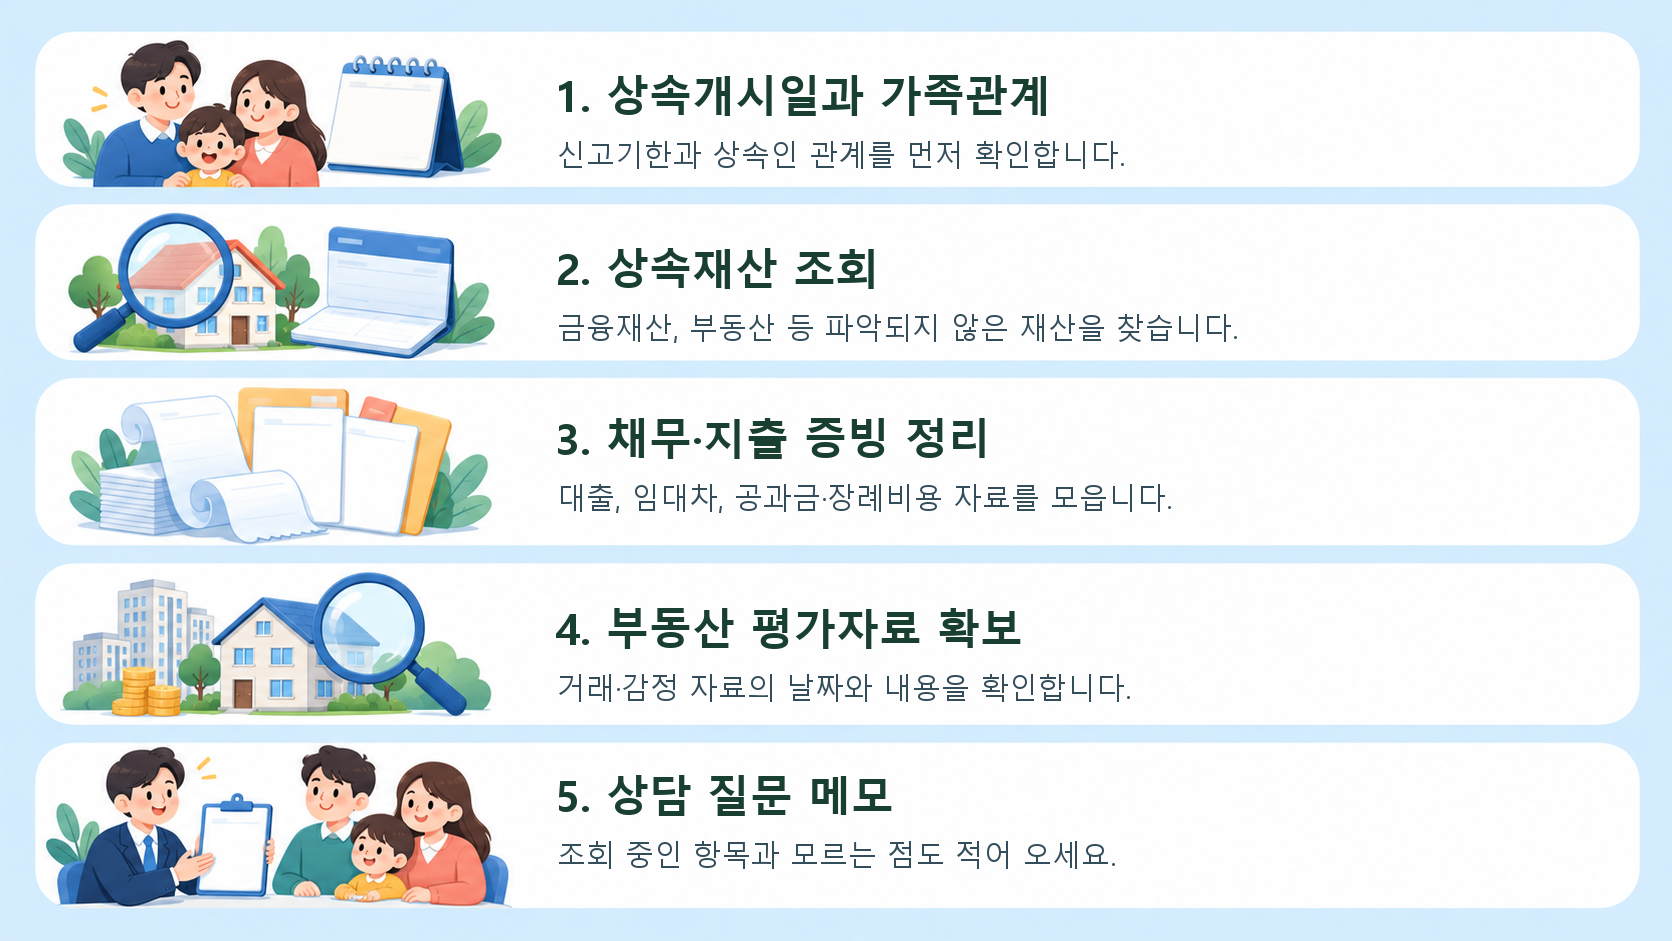
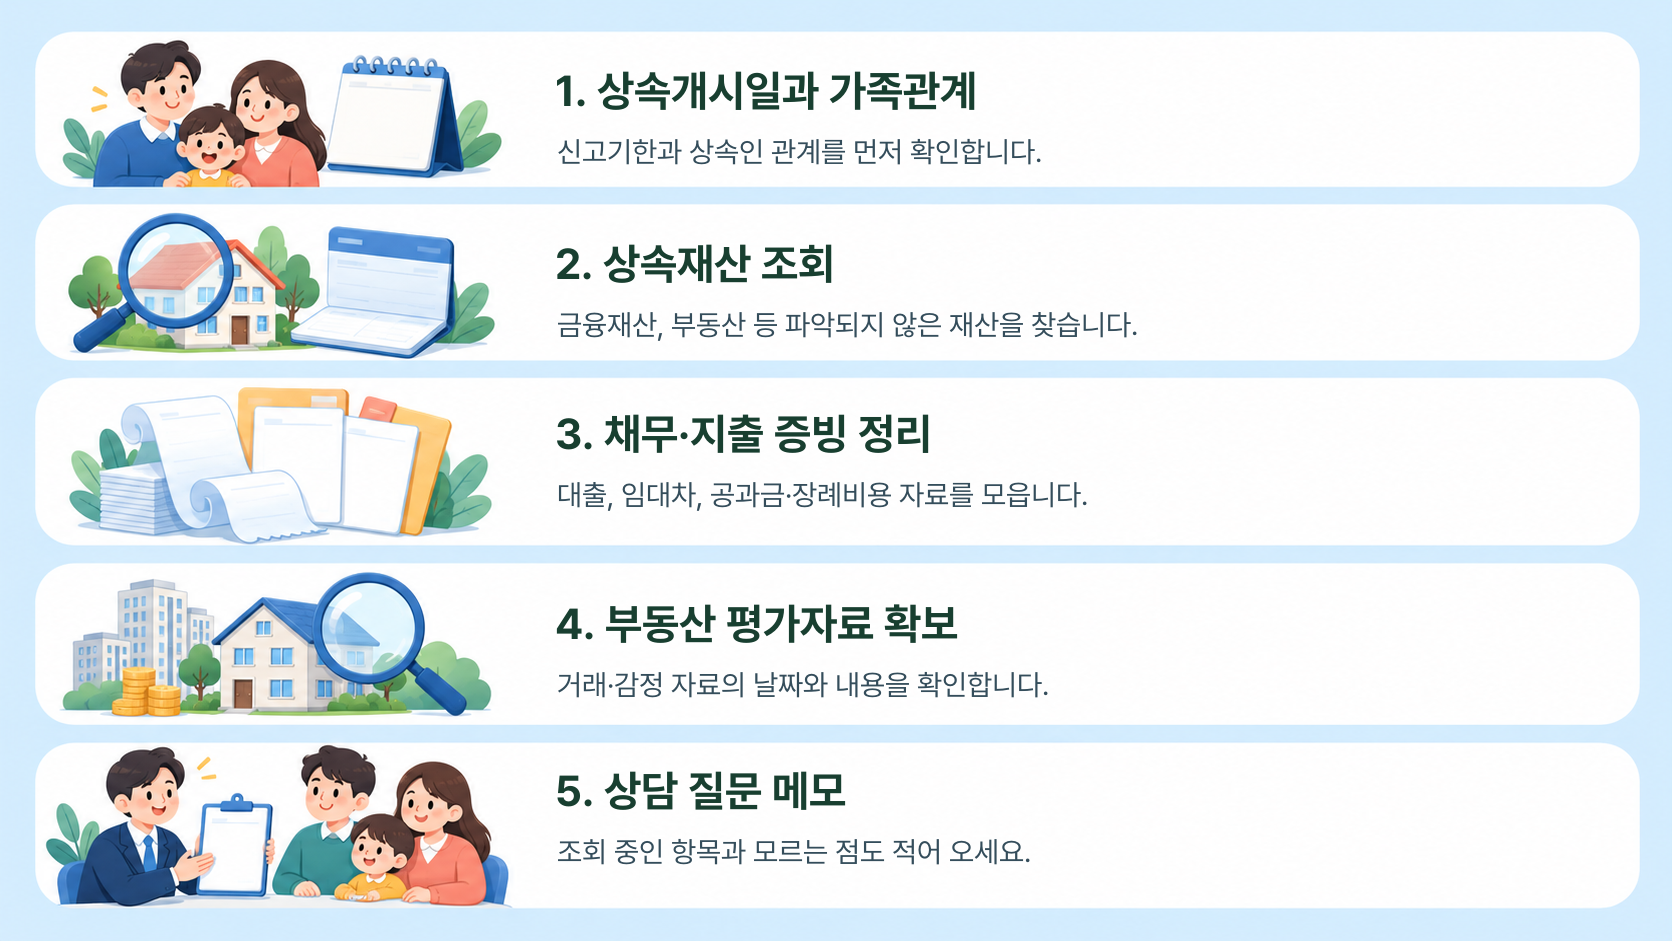
style(blog): use Pretendard and tighten inheritance copy

diff --git a/_posts/2026-10-29-inheritance-tax-first-checklist.md b/_posts/2026-10-29-inheritance-tax-first-checklist.md
@@ -1,55 +1,55 @@
 ---
 layout: post
-title: "상속세 상담 전, 가족이 먼저 확인하면 좋은 다섯 가지"
+title: "상속세 상담 전에 챙길 것 다섯 가지"
 date: 2026-10-29
-excerpt: "상속재산을 어디서 확인하고 어떤 자료부터 모아야 할까요? 국세청 안내를 바탕으로 상담 전 준비 순서를 정리했습니다."
+excerpt: "사망일, 재산 조회 결과, 채무 증빙. 상속세 첫 상담에 가져갈 자료를 정리했습니다."
 image: /assets/img/posts/inheritance-consultation-five-steps.png
 image_alt: "상속세 상담 전 확인할 다섯 단계: 가족관계, 상속재산 조회, 채무·지출 증빙, 부동산 평가자료, 상담 질문 메모"
 author: "김병규 세무회계 편집팀"
 ---
 
-가족을 잃은 뒤에는 행정 절차를 챙기는 일도 버겁습니다. 상속세 상담을 앞두고 모든 서류를 완벽히 갖출 필요는 없습니다. 다만 *언제 상속이 시작됐는지*, *어떤 재산과 채무가 있는지*를 먼저 정리하면 상담 시간을 훨씬 구체적으로 쓸 수 있습니다.
+가족이 세상을 떠난 뒤에는 어디부터 손대야 할지 막막합니다. 첫 상담에 서류를 빠짐없이 가져올 필요는 없습니다. 사망일과 가족관계, 알고 있는 재산과 빚부터 메모해 오시면 됩니다. 아직 모르는 것은 모른다고 표시해 두세요.
 
-## 1. 사망일과 상속인부터 확인하세요
+## 1. 사망일과 가족관계
 
-상속세 신고기한을 계산할 때 기준이 되는 날짜는 상속개시일입니다. 국세청은 일반적인 경우 상속개시일이 속하는 달의 **말일부터 6개월 이내**에 신고하도록 안내합니다. 피상속인이나 상속인이 외국에 주소를 둔 경우 등에는 별도 기한이 적용될 수 있으므로, 해외 거주 가족이 있다면 처음부터 알려주세요. 기한의 마지막 날이 공휴일·토요일·근로자의 날인 경우도 확인해야 합니다. 정확한 신고기한은 [국세청 상속세 신고·납부기한 안내](https://www.nts.go.kr/nts/cm/cntnts/cntntsView.do?mi=2325&cntntsId=7719)에서 확인할 수 있습니다.
+먼저 사망일을 적어 두세요. 국세청은 일반적인 상속세 신고기한을 사망일이 속하는 달의 **말일부터 6개월 이내**로 안내합니다. 상속인이나 돌아가신 분이 외국에 주소를 둔 경우에는 기한이 다를 수 있습니다. 날짜가 공휴일 등에 걸리는지도 확인해야 합니다. [국세청 신고·납부기한 안내](https://www.nts.go.kr/nts/cm/cntnts/cntntsView.do?mi=2325&cntntsId=7719)
 
-상담할 때는 가족관계가 어떻게 이어지는지, 유언이나 사전 증여가 있었는지도 함께 말씀해 주세요. 상속인과 수유자의 범위는 상황에 따라 달라질 수 있습니다. [국세청 상속세 개요](https://www.nts.go.kr/nts/cm/cntnts/cntntsView.do?mi=2324&cntntsId=7718)를 참고하되, 상속포기나 대습상속처럼 관계가 복잡하다면 서류를 보고 판단해야 합니다.
+가족관계증명서가 있다면 함께 가져오세요. 유언이나 생전 증여가 있었는지, 상속을 포기한 가족이 있는지도 알려주셔야 합니다. 누가 신고 대상인지 곧바로 단정하기 어려운 경우가 있습니다. [국세청 상속세 개요](https://www.nts.go.kr/nts/cm/cntnts/cntntsView.do?mi=2324&cntntsId=7718)
 
-## 2. 모르는 재산은 조회부터 시작하세요
+## 2. 모르는 재산은 조회부터
 
-고인이 재산 내역을 따로 정리해 두지 않았다면 예금과 부동산을 한 번에 파악하기 어렵습니다. 이럴 때는 **안심상속 원스톱서비스**를 확인해 보세요. 국세청 안내에 따르면 정부24 또는 주민센터 등을 통해 금융거래, 토지, 건축물, 자동차, 세금 관련 정보를 통합 신청할 수 있습니다. 신청 자격·시기·준비 서류는 경우에 따라 다르므로 [국세청의 상속재산 확인 안내](https://www.nts.go.kr/nts/cm/cntnts/cntntsView.do?mi=2332&cntntsId=7725)를 먼저 읽어보는 것이 좋습니다.
+어떤 계좌와 부동산이 있는지 모르는 경우가 많습니다. **안심상속 원스톱서비스**를 이용하면 정부24나 주민센터에서 금융거래, 토지, 건축물, 자동차, 세금 관련 재산 조회를 한 번에 신청할 수 있습니다. 신청 자격과 시기는 [국세청 상속재산 확인 안내](https://www.nts.go.kr/nts/cm/cntnts/cntntsView.do?mi=2332&cntntsId=7725)를 참고하세요.
 
-조회 결과가 나오기 전이라도 알고 있는 계좌, 부동산, 주식, 임대차보증금, 보험 관련 자료를 목록으로 적어 두세요. 조회 결과만으로 신고할 재산이 모두 확인됐다고 단정해서는 안 됩니다.
+조회 결과를 기다리는 동안 기억나는 계좌, 주식, 부동산, 임대차보증금을 적어 두면 됩니다. 조회 결과만으로 모든 재산이 확인됐다고 단정하지는 마세요.
 
-## 3. 재산뿐 아니라 채무·지출 증빙도 모으세요
+## 3. 빚과 지출 내역도 함께
 
-상속세 신고 서식에는 상속인별 재산 및 평가명세서 외에 채무·공과금·장례비용 및 상속공제명세서도 포함됩니다. 대출잔액증명, 임대차계약, 납부 영수증 등 관련 자료가 있다면 분류해 두는 편이 좋습니다. 다만 어떤 항목이 실제로 공제되는지는 증빙과 요건을 함께 살펴야 하므로, ‘지출했으니 모두 공제된다’고 판단하지 마세요. 제출 서식의 전체 목록은 [국세청 신고 시 유의사항](https://www.nts.go.kr/nts/cm/cntnts/cntntsView.do?mi=2328&cntntsId=7722)에 나와 있습니다.
+재산 목록만으로는 부족합니다. 대출잔액증명서, 임대차계약서, 공과금과 장례비용 영수증이 있다면 따로 모아 주세요. 국세청 신고 서식에도 채무·공과금·장례비용 관련 명세서가 있습니다. 그렇다고 영수증이 있는 지출이 전부 공제되는 것은 아닙니다. 공제 여부는 자료와 요건을 보고 판단합니다. [국세청 신고 시 유의사항](https://www.nts.go.kr/nts/cm/cntnts/cntntsView.do?mi=2328&cntntsId=7722)
 
-## 4. 부동산은 시세를 임의로 확정하지 마세요
+## 4. 부동산 가격은 자료부터
 
-상속재산 평가는 원칙적으로 상속개시일 현재의 시가를 기준으로 합니다. 부동산의 매매·감정 자료나 비슷한 재산의 거래 사례가 있다면 날짜와 함께 챙겨주세요. 시가로 인정되는 범위와 보충적 평가 방법에는 세부 요건이 있습니다. 인터넷에서 본 호가나 단일 거래가만으로 신고가액을 정하기보다는 [국세청 상속재산 평가 안내](https://www.nts.go.kr/nts/cm/cntnts/cntntsView.do?mi=2330&cntntsId=7723)를 토대로 개별 검토를 받는 것이 안전합니다.
+상속재산은 원칙적으로 사망일 현재의 시가로 평가합니다. 해당 부동산의 거래·감정 자료나 비슷한 부동산의 거래 사례가 있다면 날짜를 함께 기록해 주세요. 온라인 매물의 호가를 그대로 신고가액으로 쓰기는 어렵습니다. 어떤 가격을 시가로 인정할 수 있는지는 별도 검토가 필요합니다. [국세청 상속재산 평가 안내](https://www.nts.go.kr/nts/cm/cntnts/cntntsView.do?mi=2330&cntntsId=7723)
 
-## 5. 상담 때는 ‘모르는 것’도 적어 오세요
+## 5. 모르는 것은 질문으로 남겨두세요
 
 <div class="alert bg-light border-start border-5 border-warning p-4 my-4" role="note">
-  <p class="fw-bold mb-3">첫 상담 전에 확인해 보세요</p>
+  <p class="fw-bold mb-3">첫 상담에 가져오면 좋은 메모</p>
   <ul class="mb-0">
-    <li><strong>가족관계와 날짜:</strong> 상속개시일, 상속인 관계, 해외 거주 상속인 유무를 적어 둡니다.</li>
-    <li><strong>재산 조회:</strong> 알고 있는 부동산·금융재산과 아직 조회 중인 재산을 나눠 적습니다.</li>
-    <li><strong>채무와 지출:</strong> 대출·임대차보증금 자료, 공과금·장례비용 관련 증빙을 모읍니다.</li>
-    <li><strong>생전 이전:</strong> 고인이 가족에게 이전한 재산이 있다면 시기와 자료를 확인합니다.</li>
-    <li><strong>남은 질문:</strong> 이미 처리한 절차와 아직 모르는 사항을 따로 적어 둡니다.</li>
+    <li>사망일, 가족관계, 해외 거주 가족이 있는지</li>
+    <li>확인한 재산과 아직 조회 중인 재산</li>
+    <li>대출·임대차계약 자료, 공과금·장례비용 영수증</li>
+    <li>생전에 가족에게 넘긴 재산이 있는지</li>
+    <li>이미 처리한 일과 상담 때 묻고 싶은 점</li>
   </ul>
 </div>
 
-자료가 부족하더라도 신고기한 검토는 미루지 마세요. 이 글은 상담 준비를 돕기 위한 일반 정보이며, 실제 신고 대상·평가액·공제 가능 여부는 상속 관계와 증빙에 따라 달라집니다.
+자료를 다 찾을 때까지 신고기한 확인을 미루지는 마세요. 누가 신고해야 하는지, 재산을 얼마로 평가할지, 어떤 비용을 공제할지는 각 가정의 자료를 보고 결정해야 합니다.
 
 <div class="alert bg-light border-start border-5 border-success p-4 my-5" role="note">
   <h3 class="h5 fw-bold mb-3">상담 안내</h3>
-  <p class="mb-2">상속재산 목록이나 신고기한이 궁금하다면 자료를 준비해 문의해 주세요.</p>
+  <p class="mb-2">상속재산 목록이나 신고기한을 확인하고 싶다면 연락 주세요. 자료가 덜 모였어도 괜찮습니다.</p>
   <p class="mb-0"><strong>전화:</strong> <a href="tel:023811355">02-381-1355</a><br>
   <strong>이메일:</strong> <a href="mailto:kbgycn63@naver.com">kbgycn63@naver.com</a></p>
 </div>
 
-**자료 확인:** 국세청 상속세 안내 페이지(위 링크), 2026년 10월 29일. 본문은 공개 자료를 토대로 편집팀이 작성한 안내이며, 개별 세무 검토 의견을 대신하지 않습니다.
+<small class="text-muted">국세청 상속세 안내(본문 링크)를 2026년 10월 29일 확인했습니다. 이 글은 일반 안내이며, 개별 신고 판단은 자료를 검토한 뒤 이루어집니다.</small>
